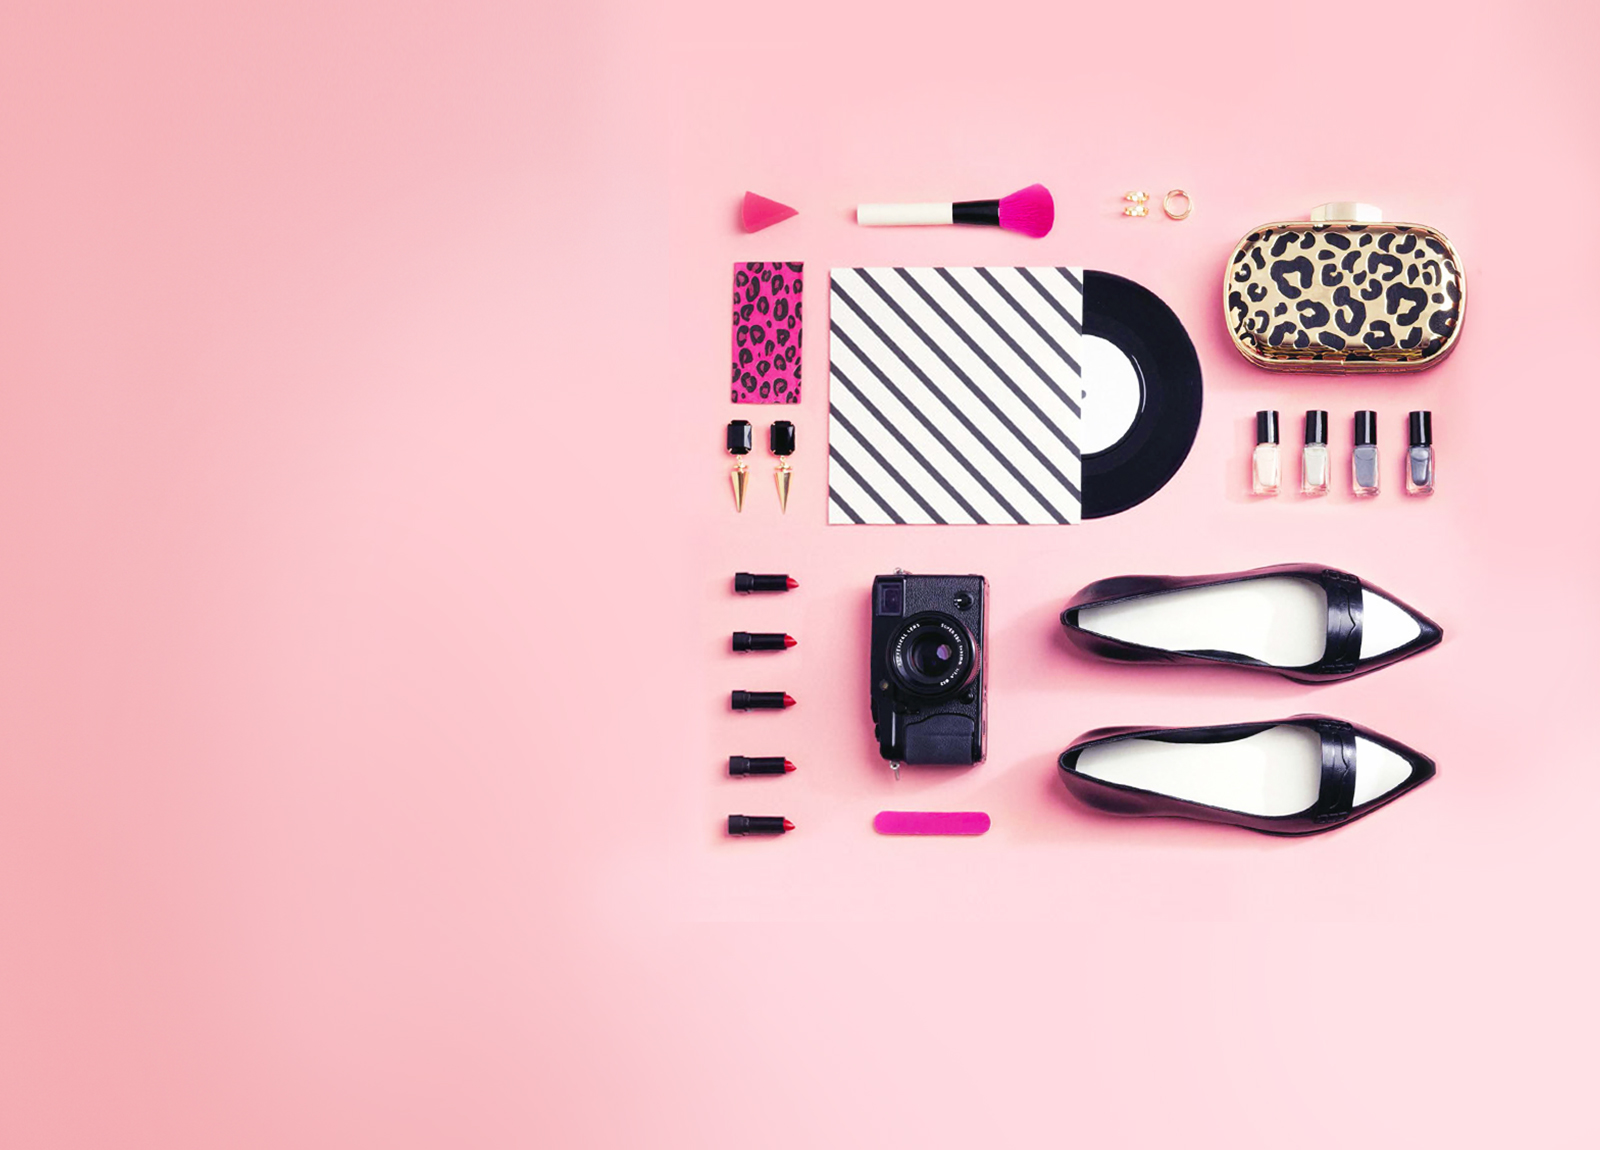
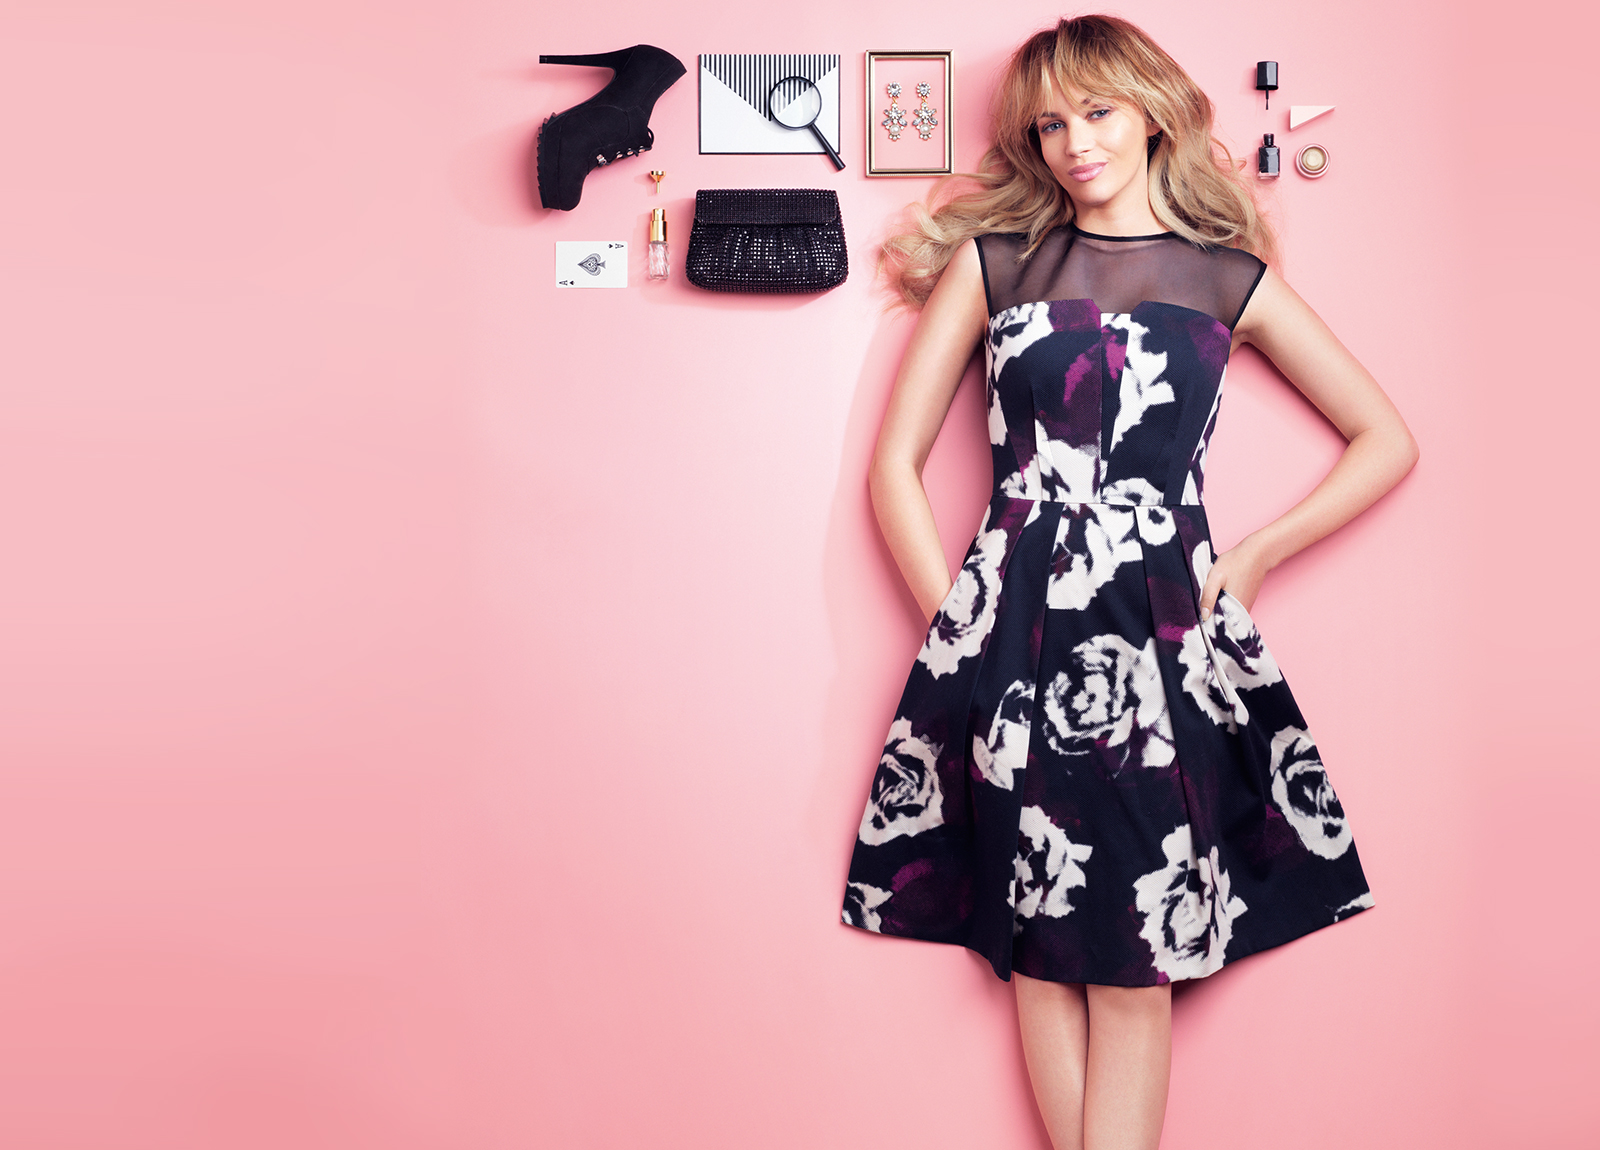
Change creative on national home page - WSF-6363

diff --git a/app/assets/stylesheets/partials/layout/_national.scss b/app/assets/stylesheets/partials/layout/_national.scss
@@ -133,9 +133,8 @@
         }
 
         h1 {
-          /* @extend %mrg-base; */
           /* Use this small bottom margin when a link appears under the `h1` */
-          @include to-rem(margin-bottom, $spacing-quarter);
+          /* @include to-rem(margin-bottom, $spacing-quarter); */
           /* Need a tighter `line-height` so the `span` will sit closer to the text under it */
           line-height: 1;
 
@@ -150,7 +149,7 @@
             /* Subtext in the heading */
             span {
               display: block;
-              @include font-size($font-size-milli);
+              @include font-size($font-size-sml);
 
               @include respond-min($iphone-landscape) {
                 @include font-size($font-size-lrg);
@@ -171,15 +170,15 @@
     /* Hero image paths (see 'Image rotate' module) */
     .national__hero__1 {
       @include respond-max($palm) {
-        background-image: cloudinary-url("heroes/national/national-hero-01-sml.jpg", $quality: 93, $fetch_format: 'auto');
+        background-image: cloudinary-url("heroes/national/national-hero-01-sml.jpg", $quality: 88, $fetch_format: 'auto');
       }
 
       @include respond-range($lap, $lap-sml-end) {
-        background-image: cloudinary-url("heroes/national/national-hero-01-med.jpg", $quality: 93, $fetch_format: 'auto');
+        background-image: cloudinary-url("heroes/national/national-hero-01-med.jpg", $quality: 88, $fetch_format: 'auto');
       }
 
       @include respond-min($lap-lrg) {
-        background-image: cloudinary-url("heroes/national/national-hero-01-lrg.jpg", $quality: 90, $fetch_format: 'auto');
+        background-image: cloudinary-url("heroes/national/national-hero-01-lrg.jpg", $quality: 88, $fetch_format: 'auto');
       }
     }
 
